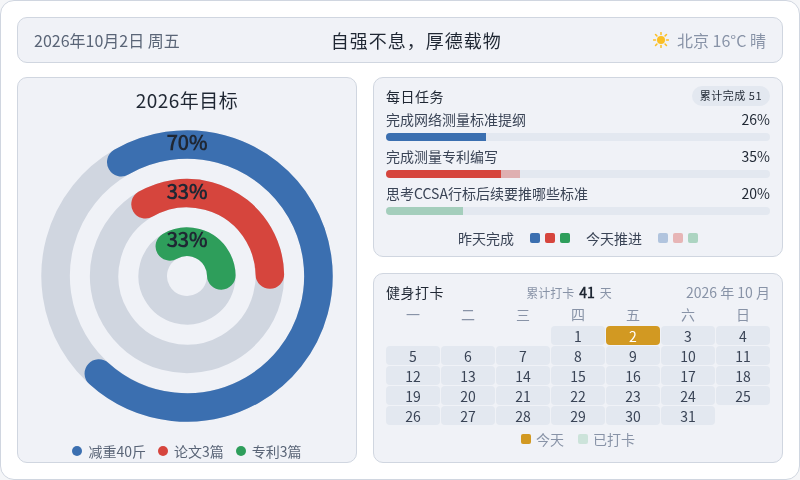
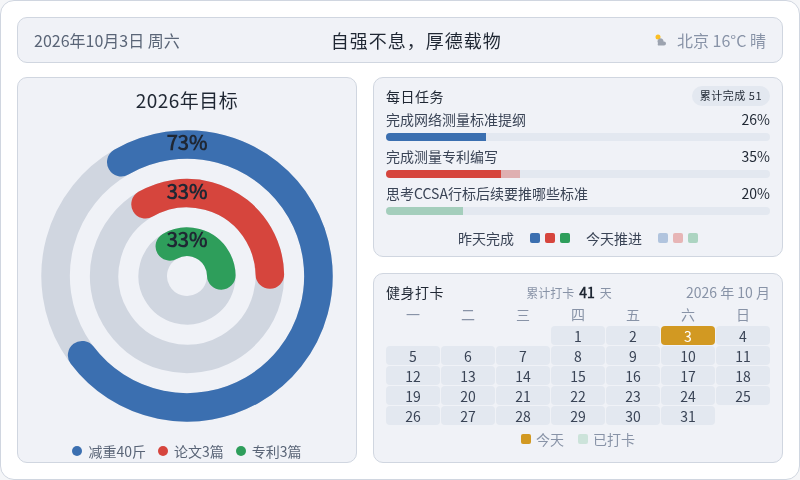
chore: 每日看板刷新 2026-10-03

diff --git a/output/dashboard/dashboard.html b/output/dashboard/dashboard.html
@@ -185,10 +185,10 @@
 <body>
   <div class="dash">
     <div class="topbar">
-      <div class="tb-date" id="tbDate">2026年10月2日 周五</div>
+      <div class="tb-date" id="tbDate">2026年10月3日 周六</div>
       <div class="tb-slogan">自强不息，厚德载物</div>
       <div class="tb-weather">
-        <svg width="16" height="16" viewBox="0 0 16 16" aria-hidden="true"><circle cx="8" cy="8" r="4" fill="#fbbf24"/><g stroke="#fbbf24" stroke-width="1.5" stroke-linecap="round"><line x1="8" y1="0.5" x2="8" y2="2.5"/><line x1="8" y1="13.5" x2="8" y2="15.5"/><line x1="0.5" y1="8" x2="2.5" y2="8"/><line x1="13.5" y1="8" x2="15.5" y2="8"/><line x1="2.5" y1="2.5" x2="3.9" y2="3.9"/><line x1="12.1" y1="12.1" x2="13.5" y2="13.5"/><line x1="13.5" y1="2.5" x2="12.1" y2="3.9"/><line x1="3.9" y1="12.1" x2="2.5" y2="13.5"/></g></svg>
+        <svg width="16" height="16" viewBox="0 0 16 16" aria-hidden="true"><circle cx="5" cy="5" r="2.5" fill="#fbbf24"/><path d="M5 11 a3 3 0 1 1 5.5 -1.5 h0.5 a2 2 0 1 1 0 4 H5 a2.5 2.5 0 0 1 0 -2.5z" fill="#9ca3af"/></svg>
         <span>北京 16°C 晴</span>
       </div>
     </div>
@@ -200,9 +200,9 @@
           <svg viewBox="0 0 210 210" width="300" height="300" role="img" aria-label="三环进度仪表盘">
             <title>2026年目标三环进度</title>
             <g transform="rotate(-120 105 105)">
-              <circle cx="105" cy="105" r="92" fill="none" stroke="#d0d6e0" stroke-width="20"/><circle cx="105" cy="105" r="92" fill="none" stroke="#3b6fb0" stroke-width="20" stroke-linecap="round" stroke-dasharray="404.64 578.05"/><circle cx="105" cy="105" r="58" fill="none" stroke="#d0d6e0" stroke-width="20"/><circle cx="105" cy="105" r="58" fill="none" stroke="#d6453d" stroke-width="20" stroke-linecap="round" stroke-dasharray="120.26 364.42"/><circle cx="105" cy="105" r="24" fill="none" stroke="#d0d6e0" stroke-width="20"/><circle cx="105" cy="105" r="24" fill="none" stroke="#2e9e5b" stroke-width="20" stroke-linecap="round" stroke-dasharray="49.76 150.80"/>
+              <circle cx="105" cy="105" r="92" fill="none" stroke="#d0d6e0" stroke-width="20"/><circle cx="105" cy="105" r="92" fill="none" stroke="#3b6fb0" stroke-width="20" stroke-linecap="round" stroke-dasharray="421.98 578.05"/><circle cx="105" cy="105" r="58" fill="none" stroke="#d0d6e0" stroke-width="20"/><circle cx="105" cy="105" r="58" fill="none" stroke="#d6453d" stroke-width="20" stroke-linecap="round" stroke-dasharray="120.26 364.42"/><circle cx="105" cy="105" r="24" fill="none" stroke="#d0d6e0" stroke-width="20"/><circle cx="105" cy="105" r="24" fill="none" stroke="#2e9e5b" stroke-width="20" stroke-linecap="round" stroke-dasharray="49.76 150.80"/>
             </g>
-            <text x="105" y="13" text-anchor="middle" dominant-baseline="middle" fill="#1f2733" font-size="14" font-weight="700">70%</text><text x="105" y="47" text-anchor="middle" dominant-baseline="middle" fill="#1f2733" font-size="14" font-weight="700">33%</text><text x="105" y="81" text-anchor="middle" dominant-baseline="middle" fill="#1f2733" font-size="14" font-weight="700">33%</text>
+            <text x="105" y="13" text-anchor="middle" dominant-baseline="middle" fill="#1f2733" font-size="14" font-weight="700">73%</text><text x="105" y="47" text-anchor="middle" dominant-baseline="middle" fill="#1f2733" font-size="14" font-weight="700">33%</text><text x="105" y="81" text-anchor="middle" dominant-baseline="middle" fill="#1f2733" font-size="14" font-weight="700">33%</text>
           </svg>
         </div>
         <div class="legend"><div class="legend-row"><span class="dot" style="background:#3b6fb0"></span><span class="lg-name">减重40斤</span></div><div class="legend-row"><span class="dot" style="background:#d6453d"></span><span class="lg-name">论文3篇</span></div><div class="legend-row"><span class="dot" style="background:#2e9e5b"></span><span class="lg-name">专利3篇</span></div></div>
@@ -248,7 +248,7 @@
           <span class="cal-date">2026 年 10 月</span>
         </div>
         <div class="cal-grid wk"><span>一</span><span>二</span><span>三</span><span>四</span><span>五</span><span>六</span><span>日</span></div>
-        <div class="cal-grid"><span class="cell empty"></span><span class="cell empty"></span><span class="cell empty"></span><span class="cell" style="background:#e3e8f0;color:#3a4456">1</span><span class="cell today" style="background:#d29922;color:#ffffff">2</span><span class="cell" style="background:#e3e8f0;color:#3a4456">3</span><span class="cell" style="background:#e3e8f0;color:#3a4456">4</span><span class="cell" style="background:#e3e8f0;color:#3a4456">5</span><span class="cell" style="background:#e3e8f0;color:#3a4456">6</span><span class="cell" style="background:#e3e8f0;color:#3a4456">7</span><span class="cell" style="background:#e3e8f0;color:#3a4456">8</span><span class="cell" style="background:#e3e8f0;color:#3a4456">9</span><span class="cell" style="background:#e3e8f0;color:#3a4456">10</span><span class="cell" style="background:#e3e8f0;color:#3a4456">11</span><span class="cell" style="background:#e3e8f0;color:#3a4456">12</span><span class="cell" style="background:#e3e8f0;color:#3a4456">13</span><span class="cell" style="background:#e3e8f0;color:#3a4456">14</span><span class="cell" style="background:#e3e8f0;color:#3a4456">15</span><span class="cell" style="background:#e3e8f0;color:#3a4456">16</span><span class="cell" style="background:#e3e8f0;color:#3a4456">17</span><span class="cell" style="background:#e3e8f0;color:#3a4456">18</span><span class="cell" style="background:#e3e8f0;color:#3a4456">19</span><span class="cell" style="background:#e3e8f0;color:#3a4456">20</span><span class="cell" style="background:#e3e8f0;color:#3a4456">21</span><span class="cell" style="background:#e3e8f0;color:#3a4456">22</span><span class="cell" style="background:#e3e8f0;color:#3a4456">23</span><span class="cell" style="background:#e3e8f0;color:#3a4456">24</span><span class="cell" style="background:#e3e8f0;color:#3a4456">25</span><span class="cell" style="background:#e3e8f0;color:#3a4456">26</span><span class="cell" style="background:#e3e8f0;color:#3a4456">27</span><span class="cell" style="background:#e3e8f0;color:#3a4456">28</span><span class="cell" style="background:#e3e8f0;color:#3a4456">29</span><span class="cell" style="background:#e3e8f0;color:#3a4456">30</span><span class="cell" style="background:#e3e8f0;color:#3a4456">31</span></div>
+        <div class="cal-grid"><span class="cell empty"></span><span class="cell empty"></span><span class="cell empty"></span><span class="cell" style="background:#e3e8f0;color:#3a4456">1</span><span class="cell" style="background:#e3e8f0;color:#3a4456">2</span><span class="cell today" style="background:#d29922;color:#ffffff">3</span><span class="cell" style="background:#e3e8f0;color:#3a4456">4</span><span class="cell" style="background:#e3e8f0;color:#3a4456">5</span><span class="cell" style="background:#e3e8f0;color:#3a4456">6</span><span class="cell" style="background:#e3e8f0;color:#3a4456">7</span><span class="cell" style="background:#e3e8f0;color:#3a4456">8</span><span class="cell" style="background:#e3e8f0;color:#3a4456">9</span><span class="cell" style="background:#e3e8f0;color:#3a4456">10</span><span class="cell" style="background:#e3e8f0;color:#3a4456">11</span><span class="cell" style="background:#e3e8f0;color:#3a4456">12</span><span class="cell" style="background:#e3e8f0;color:#3a4456">13</span><span class="cell" style="background:#e3e8f0;color:#3a4456">14</span><span class="cell" style="background:#e3e8f0;color:#3a4456">15</span><span class="cell" style="background:#e3e8f0;color:#3a4456">16</span><span class="cell" style="background:#e3e8f0;color:#3a4456">17</span><span class="cell" style="background:#e3e8f0;color:#3a4456">18</span><span class="cell" style="background:#e3e8f0;color:#3a4456">19</span><span class="cell" style="background:#e3e8f0;color:#3a4456">20</span><span class="cell" style="background:#e3e8f0;color:#3a4456">21</span><span class="cell" style="background:#e3e8f0;color:#3a4456">22</span><span class="cell" style="background:#e3e8f0;color:#3a4456">23</span><span class="cell" style="background:#e3e8f0;color:#3a4456">24</span><span class="cell" style="background:#e3e8f0;color:#3a4456">25</span><span class="cell" style="background:#e3e8f0;color:#3a4456">26</span><span class="cell" style="background:#e3e8f0;color:#3a4456">27</span><span class="cell" style="background:#e3e8f0;color:#3a4456">28</span><span class="cell" style="background:#e3e8f0;color:#3a4456">29</span><span class="cell" style="background:#e3e8f0;color:#3a4456">30</span><span class="cell" style="background:#e3e8f0;color:#3a4456">31</span></div>
         <div class="cal-legend">
           <span style="color:#8893a7"><i class="sw" style="background:#d29922"></i>今天</span>
           <span style="color:#8893a7"><i class="sw" style="background:rgba(46,158,91,0.18)"></i>已打卡</span>
